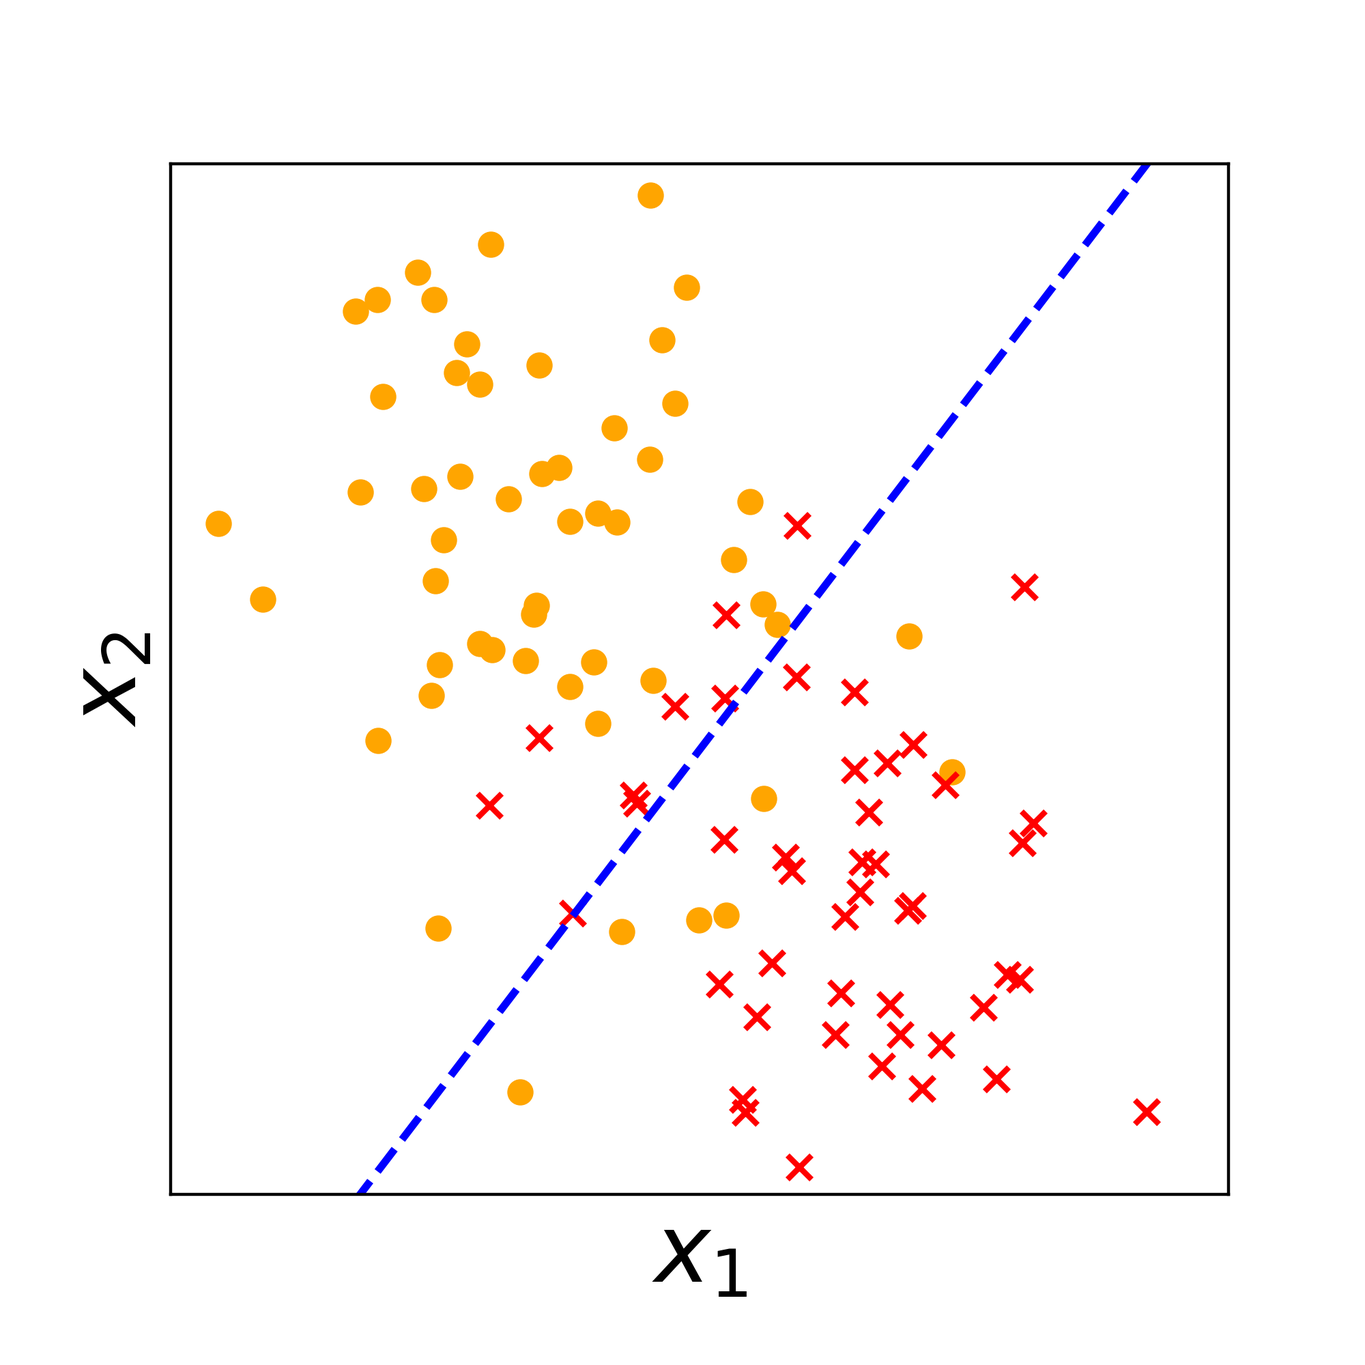
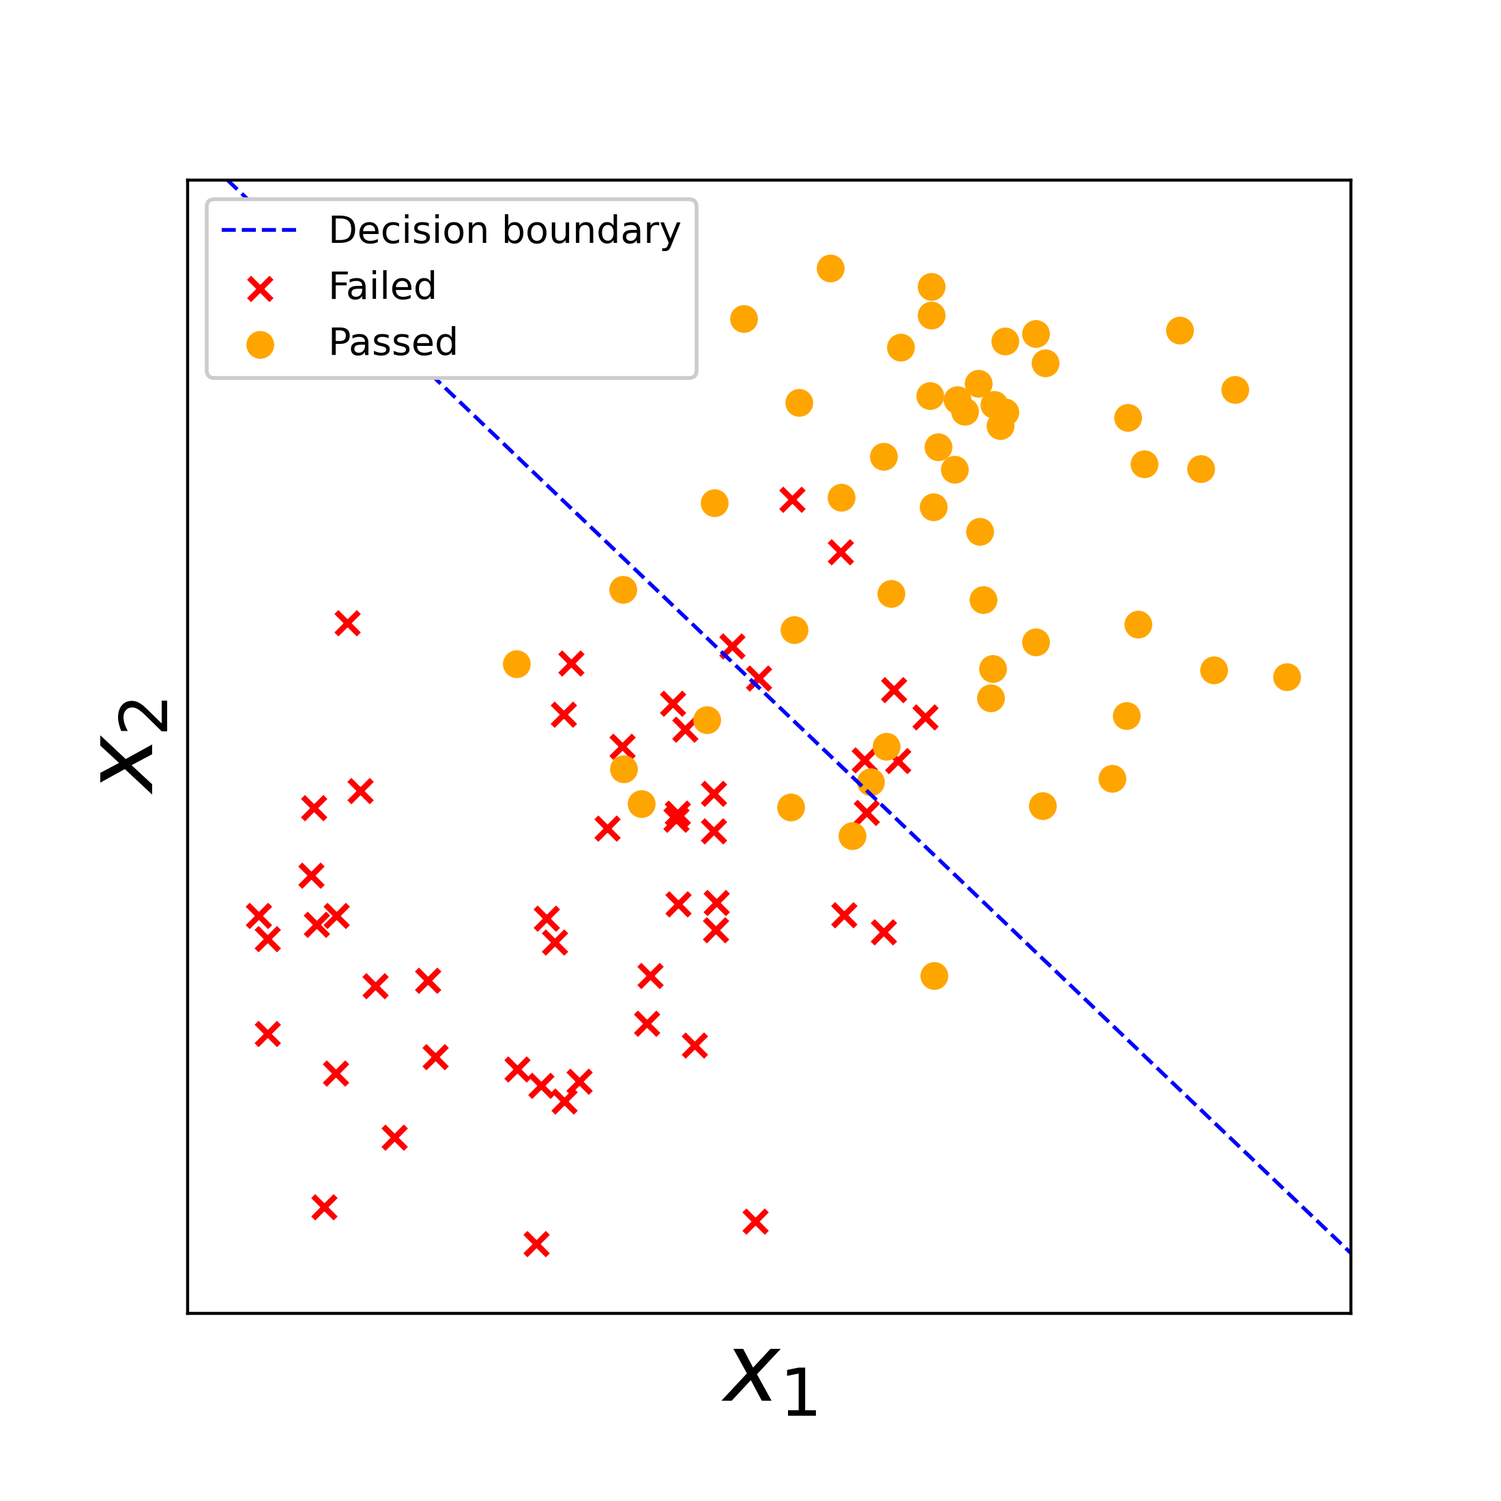
Finish logistic regression section

diff --git a/_posts/careers/2020-10-26-DS-transition-2.md b/_posts/careers/2020-10-26-DS-transition-2.md
@@ -53,13 +53,13 @@ Inferential statistics is the discipline of drawing inferences about a _**popula
 ### Wait, do I actually need to learn stats?
 In the era of big data and machine learning, it's tempting to shrug off learning any stats. When the average laptop is [*2 million times* more powerful](https://www.realclearscience.com/articles/2019/07/02/your_mobile_phone_vs_apollo_11s_guidance_computer_111026.html) than the computer that got us to the moon<sup>[[1]](#footnotes)</sup>, it's easier than ever to throw a dataset into a deep learning algorithm, get a coffee while it crunches the numbers, and then come back to some model that always delivers world-shattering insights. Right? Well... not quite.<sup>[[2]](#footnotes)</sup>
 
-As data scientists, **a core part of our job is to generate models that help us understand the past and predict the future.** Despite the importance of getting models right, it's uncomfortably easy to create models that are nonsensical or misleading. The following quote usually refers to the *quality of data* going into an analysis or prediction, but I think it's an apt summary for why we need to care about stats as well.
+As data scientists, **a core part of our job is to generate models that help us understand the past and predict the future.** Despite the importance of getting models right, it's easy to create models with serious flaws. It's then *uncomfortably* easy to make confident recommendations to stakeholders based on these flawed models. The following quote usually refers to the *quality of data* going into an analysis or prediction, but I think it's an apt summary for why we need to care about stats as well.
 
 > "Garbage in, garbage out."
 
 **A model is a simplified representation of reality.** If that representation is flawed, the picture it paints can very easily be nonsensical or misleading. The reason people dedicate their lives to researching statistics is that **condensing reality down to models is incredibly challenging, yet necessary.**
 
-<img src="{{  site.baseurl  }}/images/careers/clothes_model.png" align="right" height="40%" width="40%" style="padding-left: 30px" alt="A negative relationship between outdoor temperature and number of layers of clothes to wear."> It's usually impossible or impractical to process every detail before making a decision; our brains, for example, constantly use [processing short-cuts](https://jamesclear.com/schemas) to interpret the world faster. You don't need to memorize what clothes to wear for every possible temperature outside; you know that, in general, as the temperature goes down, you put on more layers. This mental model isn't perfect $-$ sometimes it's windy or humid, and a different number of layers feels more comfortable $-$ but it's a great rule of thumb.
+<img src="{{  site.baseurl  }}/images/careers/clothes_model.png" align="right" height="40%" width="40%" style="padding-left: 30px" alt="A positive relationship between how cold it is outside and how many layers of clothes I should wear."> It's usually impossible or impractical to process every detail before making a decision; our brains, for example, constantly use [processing short-cuts](https://jamesclear.com/schemas) to interpret the world faster. You don't need to memorize what clothes to wear for every possible temperature outside; you know that, in general, as the temperature goes down, you put on more layers. This mental model isn't perfect $-$ sometimes it's windy or humid, and a different number of layers feels more comfortable $-$ but it's a great rule of thumb.
 
 When we build a model, **the question isn't how to make a model that isn't flawed; it's how to ensure the flaws don't affect the conclusions.** The fact that wind or humidity sometimes alters the best number of layers doesn't change the fact that "the colder it is, the more clothes I should put on" is a good model. As statistician George Box ([allegedly](https://en.wikipedia.org/wiki/All_models_are_wrong)) said:
 
@@ -68,15 +68,13 @@ When we build a model, **the question isn't how to make a model that isn't flawe
 The difference between a model that's *wrong but useful* versus one that's *just wrong* is often hidden in the details. **Unlike in programming, hitting "run" on a half-baked model *will* output a result that qualitatively looks identical to a highly-polished, accurate model.** But whether the model represents *the reality we actually live in* requires a trained eye.  
 
 ### Ok, so how much stats do I actually need?
-Data science roles vary tremendously in the depth of statistical knowledge expected, so the following concepts should serve as a *starting point*. If your role involves lots of data analysis, I think the more statistical knowledge the better, as you'll want as many tools as you can get for parsing *signals* from *noise* in your data.
+Data science roles vary tremendously in the depth of statistical knowledge expected, so the following concepts should serve as a *starting point*. If your role involves lots of data analysis, I think the more statistical knowledge the better, as you'll want as many tools as you can get for parsing *signals* from *noise* in your data.<sup>[[3]](#footnotes)</sup> But the fundamentals here are likely enough to cover the stats you'll need for jobs on most of the [analytics-engineering spectrum]({{  site.baseurl  }}/DS-transition-1#the-scalpel-versus-the-shovel).
 
-Especially if your analyses inform major decisions like public policy or the direction your company takes, you'll want to account for nuances like [random effects](https://www.theanalysisfactor.com/understanding-random-effects-in-mixed-models/), [regression discontinuities](https://en.wikipedia.org/wiki/Regression_discontinuity_design), [nonparametric](http://mlss.tuebingen.mpg.de/2015/slides/ghahramani/gp-neural-nets15.pdf) or [Bayesian](http://www.scholarpedia.org/article/Bayesian_statistics) alternatives to [frequentism](https://en.wikipedia.org/wiki/Frequentist_inference), [bootstrapping](https://en.wikipedia.org/wiki/Bootstrapping_(statistics)) and more. Similarly, if you're in a field where you actually *do* have access to all the data in a process, such as analyzing [Internet of Things (IoT)](https://www.zdnet.com/article/what-is-the-internet-of-things-everything-you-need-to-know-about-the-iot-right-now/) sensor data, then you'll want to dive deep on [time series analysis](https://www.statisticssolutions.com/time-series-analysis/) and [anomaly detection](https://www.anodot.com/blog/what-is-anomaly-detection/).
-
-Regardless, the fundamentals here are likely enough to cover the stats you'll need for jobs on most of the [analytics-engineering spectrum]({{  site.baseurl  }}/DS-transition-1#the-scalpel-versus-the-shovel).
+Once you have these fundamentals down, you'll find it much easier to communicate to stakeholders about your analyses, as well as understand when it's necessary to pull in the more complicated analytics.
 
 ### Sampling and bias
 <img align="right" src="https://i.imgur.com/JbXsczj.png" height="40%" width="40%">
-One of the key concepts to understand is that when you collect data, you are **sampling** from a **population.** (Except, of course, in a case like IoT mentioned above.) Because we're condensing a large, diverse body down into a relatively small sample, we need to make sure the sample actually looks like a microcosm of the broader population.
+One of the key concepts to understand is that when you collect data, you are **sampling** from a **population.** (Except in very recent fields like [IoT](https://en.wikipedia.org/wiki/Internet_of_things).) Because we're condensing a large, diverse body down into a relatively small sample, we need to make sure the sample actually looks like a microcosm of the broader population.
 
 In the graphic on the right, for example, our sample isn't really representative of the population $-$ several colors aren't present at all! We can't run an analysis on this sample and then generalize to the population; **we can only generalize to red, orange, yellow, and green.** No matter how perfectly we model our sample data, our model's scope is trapped. If we try to comment on the broader population, we'll find that our seemingly accurate model suddenly makes embarrassingly inaccurate predictions.
 
@@ -105,18 +103,14 @@ In plain English, this equation is saying that $y$ (exam score) is equal to:
 * ...plus the "study multiplier" ($\beta_1$) times the hours studied ($x_1$)
 * ...plus the "sleep multiplier" ($\beta_2$) times the hours slept ($x_2$)
 
-Even if you're in a big company working with cutting-edge data and technology, it's hard to escape the simplicity and convenience of a good linear regression model. Linear regressions are extremely fast to compute and they're easy to explain: the [coefficients](#coefficients) give a clear explanation of how each variable affects the output<sup>[[5]](#footnotes)</sup>, and you just add all the $\beta_jx_j$ together to get your output.
+No matter where you work, it's hard to escape the simplicity and convenience of a good linear regression model. Linear regressions are extremely fast to compute and they're easy to explain: the [coefficients](#coefficients) give a clear explanation of how each variable affects the output<sup>[[5]](#footnotes)</sup>, and you just add all the $\beta_jx_j$ together to get your output. Make sure you have your "30-second spiel" ready for regression, since you'll likely be explaining these models repeatedly to various stakeholders.
 
-You'll want to feel comfortable talking through linear regression, since you'll be XXXXXX
-
-
-Once you're good with it, it'd be good to brush up on more advanced topics, like feature [scaling](https://en.wikipedia.org/wiki/Feature_scaling), [interactions](https://christophm.github.io/interpretable-ml-book/interaction.html), and [collinearity](https://medium.com/future-vision/collinearity-what-it-means-why-its-bad-and-how-does-it-affect-other-models-94e1db984168), as well as [model regularization](https://medium.com/@zxr.nju/the-classical-linear-regression-model-is-good-why-do-we-need-regularization-c89dba10c8eb).
-
+Once you're comfortable, it'd be good to brush up on more advanced topics, like feature [scaling](https://en.wikipedia.org/wiki/Feature_scaling), [interactions](https://christophm.github.io/interpretable-ml-book/interaction.html), and [collinearity](https://medium.com/future-vision/collinearity-what-it-means-why-its-bad-and-how-does-it-affect-other-models-94e1db984168), as well as [model regularization](https://medium.com/@zxr.nju/the-classical-linear-regression-model-is-good-why-do-we-need-regularization-c89dba10c8eb) and [how coefficients are calculated]({{  site.baseurl  }}/LR-grad-desc).
 
 ### Classification
-Meanwhile, a **logistic regression model** (which is actually classification despite having "regression" in the name...) with the same predictors looks like this:
+Our model above predicted an exam score based on the hours a student studied and slept. A **logistic regression model** (which is actually classification despite having "regression" in the name) with the same predictors looks like this:
 
-$$ P(y) = \frac{1}{1+e^{-h(x)}} $$
+$$ P(y) = \frac{1}{1+e^{-h(x)}}$$
 
 where $$h(x) = \beta_0 + \beta_1x_1 + \beta_2x_2 $$.
 
@@ -127,33 +121,29 @@ In plain English, this means $P(y)$ (the probability of passing the exam) is equ
   - <span style="font-size: 13px">(And that value looks a lot like a linear regression output!)</span>
 
 #### Making sense of that equation
-While the equation may look intimidating, it looks a *lot* simpler if you set $h(x)$ to the extremes. Let's say $h(x)$ is *extremely negative.* That would mean $-h(x)$ would be positive, which would make $1 + e^{-h(x)}$ *huge*. For example, if $e^{-h(x)}$ is 10000000, we'd have the following equation:
+While the equation may look intimidating, it looks a *lot* simpler if you set $h(x)$ to the extremes. Let's say $h(x)$ is *extremely negative.* That would mean $-h(x)$ would be positive, which would make $1 + e^{-h(x)}$ *huge*. For example, if $e^{-h(x)}$ is 10000000, we see $P(y)$ is nearly zero.
 
-$$ P(y) = \frac{1}{1+10000000} $$
+$$ P(y) = \frac{1}{1+10000000} = 0.0000001$$
 
-$\frac{1}{10000001}$ is a tiny number: 0.0000001. This means that **the likelihood of the event $y$ occurring, given our predictors, is tiny.**
+On the other extreme, if $h(x)$ is *extremely positive*, then $-h(x)$ becomes *tiny*, meaning we're essentially dividing 1 by 1. When $e^{-h(x)}$ is 0.00000001, we see $P(y)$ is pretty much 1.
 
-On the other extreme, if $h(x)$ is *extremely positive*, then $-h(x)$ becomes *tiny*. For example:
+$$ P(y) = \frac{1}{1+0.00000001} = 0.99999999$$
 
-$$ P(y) = \frac{1}{1+0.00000001} $$
+This is the major distinction from linear regression: **logistic regression outputs are constrained to between 0 and 1.** We interpret logistic regression outputs as **the probability of event $y$ occurring, given our predictors.** We can work with these outputted probabilities directly, or we can binarize them into 0s and 1s. In our student model, this would mean predicting whether the student passed (1) or failed (0) the exam. We typically use $P(y)$ = 0.5 as the probability cutoff.
 
-$\frac{1}{1.00000001}$ is effectively 1, meaning the likelihood of this event happening is pretty much guaranteed.
+One last thing before we move on. What happens when $h(x)$ equals zero? Any real number raised to the zeroth power equals 1, so $e^{-h(x)}$ becomes 1.
+
+$$ P(y) = \frac{1}{1+1} = 0.5 $$
+
+When $h(x)$ equals zero, $P(y)$ equals 0.5. If we're using 0.5 as the probability cutoff, that means **we'll predict the student passed if $h(x)$ is positive. If $h(x)$ is negative, we'll predict the student failed.** Interesting...
 
 #### Making sense of $h(x)$
+<img src="{{  site.baseurl  }}/images/careers/decision_boundary.png" height="55%" width="55%" align="right">
+So what's up with $h(x)$? In short, when $h(x)$ = 0, we get **a line that best separates our data into classes.** Training a logistic regression model is all about identifying *where to put this line* to best separate the classes in the data.
 
-And what about that line, $h(x)$? Well, this is the line that separates our data into classes. (For multi-class classification, one approach is an iterative "one vs. rest" classifier.) This line is called the **decision boundary.** It's the line at which the probability of belonging to the "positive" class becomes 50%, in which we start labeling it as the positive class.
+In the figure on the right<sup>[[6]](#footnotes)</sup>, we've plotted some fake training data of students who passed vs. failed the exam. The blue line is the model's **decision boundary**, where it determined the best separation of the "passed" vs. "failed" classes falls, based on $x_1$ and $x_2$. It's not perfect $-$ there are some "passed" students on the left and "failed" students on the right $-$ but this is the best separation the model could come up with. For any new data falling to the left of the decision boundary, our model will predict the student failed. For any new data falling on the right, our model will predict the student passed.  
 
-<img src="{{  site.baseurl  }}/images/careers/decision_boundary.png" height="50%" width="50%" align="right">
-
-The logistic regression outputs a probability between 0 and 1 of belonging to the "positive" class. (Note that whichever class is "positive" is arbitrary; it's just the class with the 1s rather than 0s in your model. Need to adjust for multi-class...)
-
-For least squares:
-$$ y = \sum_{i=1}^{m}(h(x_i)-y_i)^2 $$
-
-
-Decision boundary time. Code can be found in this footnote.<sup>[[6]](#footnotes)</sup>
-
-
+Once you're comfortable with these topics, it's a small step to move onto logistic regression models for more than two classes, such as [multinomial](https://en.wikipedia.org/wiki/Multinomial_logistic_regression) and [one-vs-rest](https://scikit-learn.org/stable/auto_examples/linear_model/plot_logistic_multinomial.html) classification.
 
 ### Coefficients
 Let's take another look at the linear regression model that predicts student exam scores.
@@ -167,11 +157,15 @@ Model coefficients help us understand the trends in our data, such as whether st
 
 TALK ABOUT EFFECT SIZES AND CONFIDENCE INTERVALS
 
+For least squares:
+$$ y = \sum_{i=1}^{m}(h(x_i)-y_i)^2 $$
+
+
 ### Residuals
 <img src="{{  site.baseurl  }}/images/careers/residual.png" align='right' height='55%' width='55%'>
 Once we've built a model, how do we tell if it's any good? One way is to compare *<u>the model's predictions</u>* to *<u>the actual values</u>* in our data. In other words, given some sample inputs, what does the model *think the output is*, versus *what the output actually is*? The **residual** is the distance between the predicted versus actual values.
 
-You can see this illustrated in the graphic on the right. The model's predictions are the red line. The distance between the predictions and the actual values are the residuals. The goal with building a model is to get the predicted and actual values as similar as possible $-$ to *minimize the residuals*, in other words.<sup>[[3]](#footnotes)</sup> A more accurate model will have tend to generate predictions closer to the actual values than an inaccurate one.
+You can see this illustrated in the graphic on the right. The model's predictions are the red line. The distance between the predictions and the actual values are the residuals. The goal with building a model is to get the predicted and actual values as similar as possible $-$ to *minimize the residuals*, in other words.<sup>[[7]](#footnotes)</sup> A more accurate model will have tend to generate predictions closer to the actual values than an inaccurate one.
 
 Especially for linear models, the residuals should be normally distributed around zero, meaning our predictions are usually pretty good but sometimes a little too high or too low, and rarely way too high or way too low.
 
@@ -209,7 +203,7 @@ $$ h(x) = \sum_{j=1}^{n}\beta_jx_j $$
 * American Statistical Association: [Statistics and Big Data](http://higherlogicdownload.s3.amazonaws.com/AMSTAT/UploadedImages/49ecf7cf-cb26-4c1b-8380-3dea3b7d8a9d/BigDataOnePager.pdf)
 * National Science Review: [Challenges of Big Data Analysis](https://www.ncbi.nlm.nih.gov/pmc/articles/PMC4236847/)
 
-3. [[Residuals]](#residuals) I talk about minimizing residuals at great length in [this blog post]({{  site.baseurl  }}/LR-grad-desc), where I recreate R's linear regression function by hand. Fun times!
+3. [[Ok, so how much stats do I actually need?]](#ok-so-how-much-stats-do-i-actually-need) Especially if your analyses inform major decisions like public policy or the direction your company takes, you'll want to account for nuances like [random effects](https://www.theanalysisfactor.com/understanding-random-effects-in-mixed-models/), [regression discontinuities](https://en.wikipedia.org/wiki/Regression_discontinuity_design), [nonparametric](http://mlss.tuebingen.mpg.de/2015/slides/ghahramani/gp-neural-nets15.pdf) or [Bayesian](http://www.scholarpedia.org/article/Bayesian_statistics) alternatives to [frequentism](https://en.wikipedia.org/wiki/Frequentist_inference), [bootstrapping](https://en.wikipedia.org/wiki/Bootstrapping_(statistics)) and more. Similarly, if you're in a field where you actually *do* have access to all the data in a process, such as analyzing [Internet of Things (IoT)](https://www.zdnet.com/article/what-is-the-internet-of-things-everything-you-need-to-know-about-the-iot-right-now/) sensor data, then you'll want to dive deep on [time series analysis](https://www.statisticssolutions.com/time-series-analysis/) and [anomaly detection](https://www.anodot.com/blog/what-is-anomaly-detection/).
 
 4. [[The high-level view]](#the-high-level-view) To the best of my knowledge, clustering unlabeled data falls neatly into machine learning rather than classical statistics, so I won't be covering it in this post. But of course, clustering is a crucial skill to have: make sure you understand [k-means clustering](https://en.wikipedia.org/wiki/K-means_clustering) as a starting point, and [Gaussian mixture models](https://scikit-learn.org/stable/modules/mixture.html) if you want to get fancy.
 
@@ -223,7 +217,7 @@ $$ h(x) = \sum_{j=1}^{n}\beta_jx_j $$
 
     # Generate sample data with pos (x1) & neg (x2) slopes
     x1 = np.arange(0, 10, 0.1) + np.random.normal(0, 2, 100)
-    x2 = np.arange(10, 0, -0.1) + np.random.normal(0, 2, 100)
+    x2 = np.arange(0, 10, 0.1) + np.random.normal(0, 2, 100)
     y = np.round(np.arange(0, 1, 0.01) + np.random.normal(0, 0.1, 100))
 
     # Put into df and fit a model
@@ -240,8 +234,8 @@ $$ h(x) = \sum_{j=1}^{n}\beta_jx_j $$
     m = -b1/b2
 
     # Generate the decision boundary line
-    xmin, xmax = -2, 13
-    ymin, ymax = -3, 13
+    xmin, xmax = -10, 15
+    ymin, ymax = -15, 15
 
     xd = np.array([xmin, xmax])
     yd = m*xd + c
@@ -256,10 +250,15 @@ $$ h(x) = \sum_{j=1}^{n}\beta_jx_j $$
     plt.scatter(df1['x1'], df1['x2'], marker='x', color='red', s=40)
 
     plt.plot(xd, yd, 'k', lw=1, ls='--', color='blue')
-    plt.ylim(-2.5, 13.5)
+    plt.xlim(-2.75, 13.25)
+    plt.ylim(-3.75, 13)
     plt.xlabel(r'$x_1$', fontweight='bold', fontsize=25)
     plt.ylabel(r'$x_2$', fontweight='bold', fontsize=25)
     plt.tick_params(bottom= False, left=False, labelbottom=False,
                     labelleft=False)
+    plt.legend(framealpha=1)
     plt.show()
     ```
+    <br>
+
+7. [[Residuals]](#residuals) I talk about minimizing residuals at great length in [this blog post]({{  site.baseurl  }}/LR-grad-desc), where I recreate R's linear regression function by hand. Fun times!
